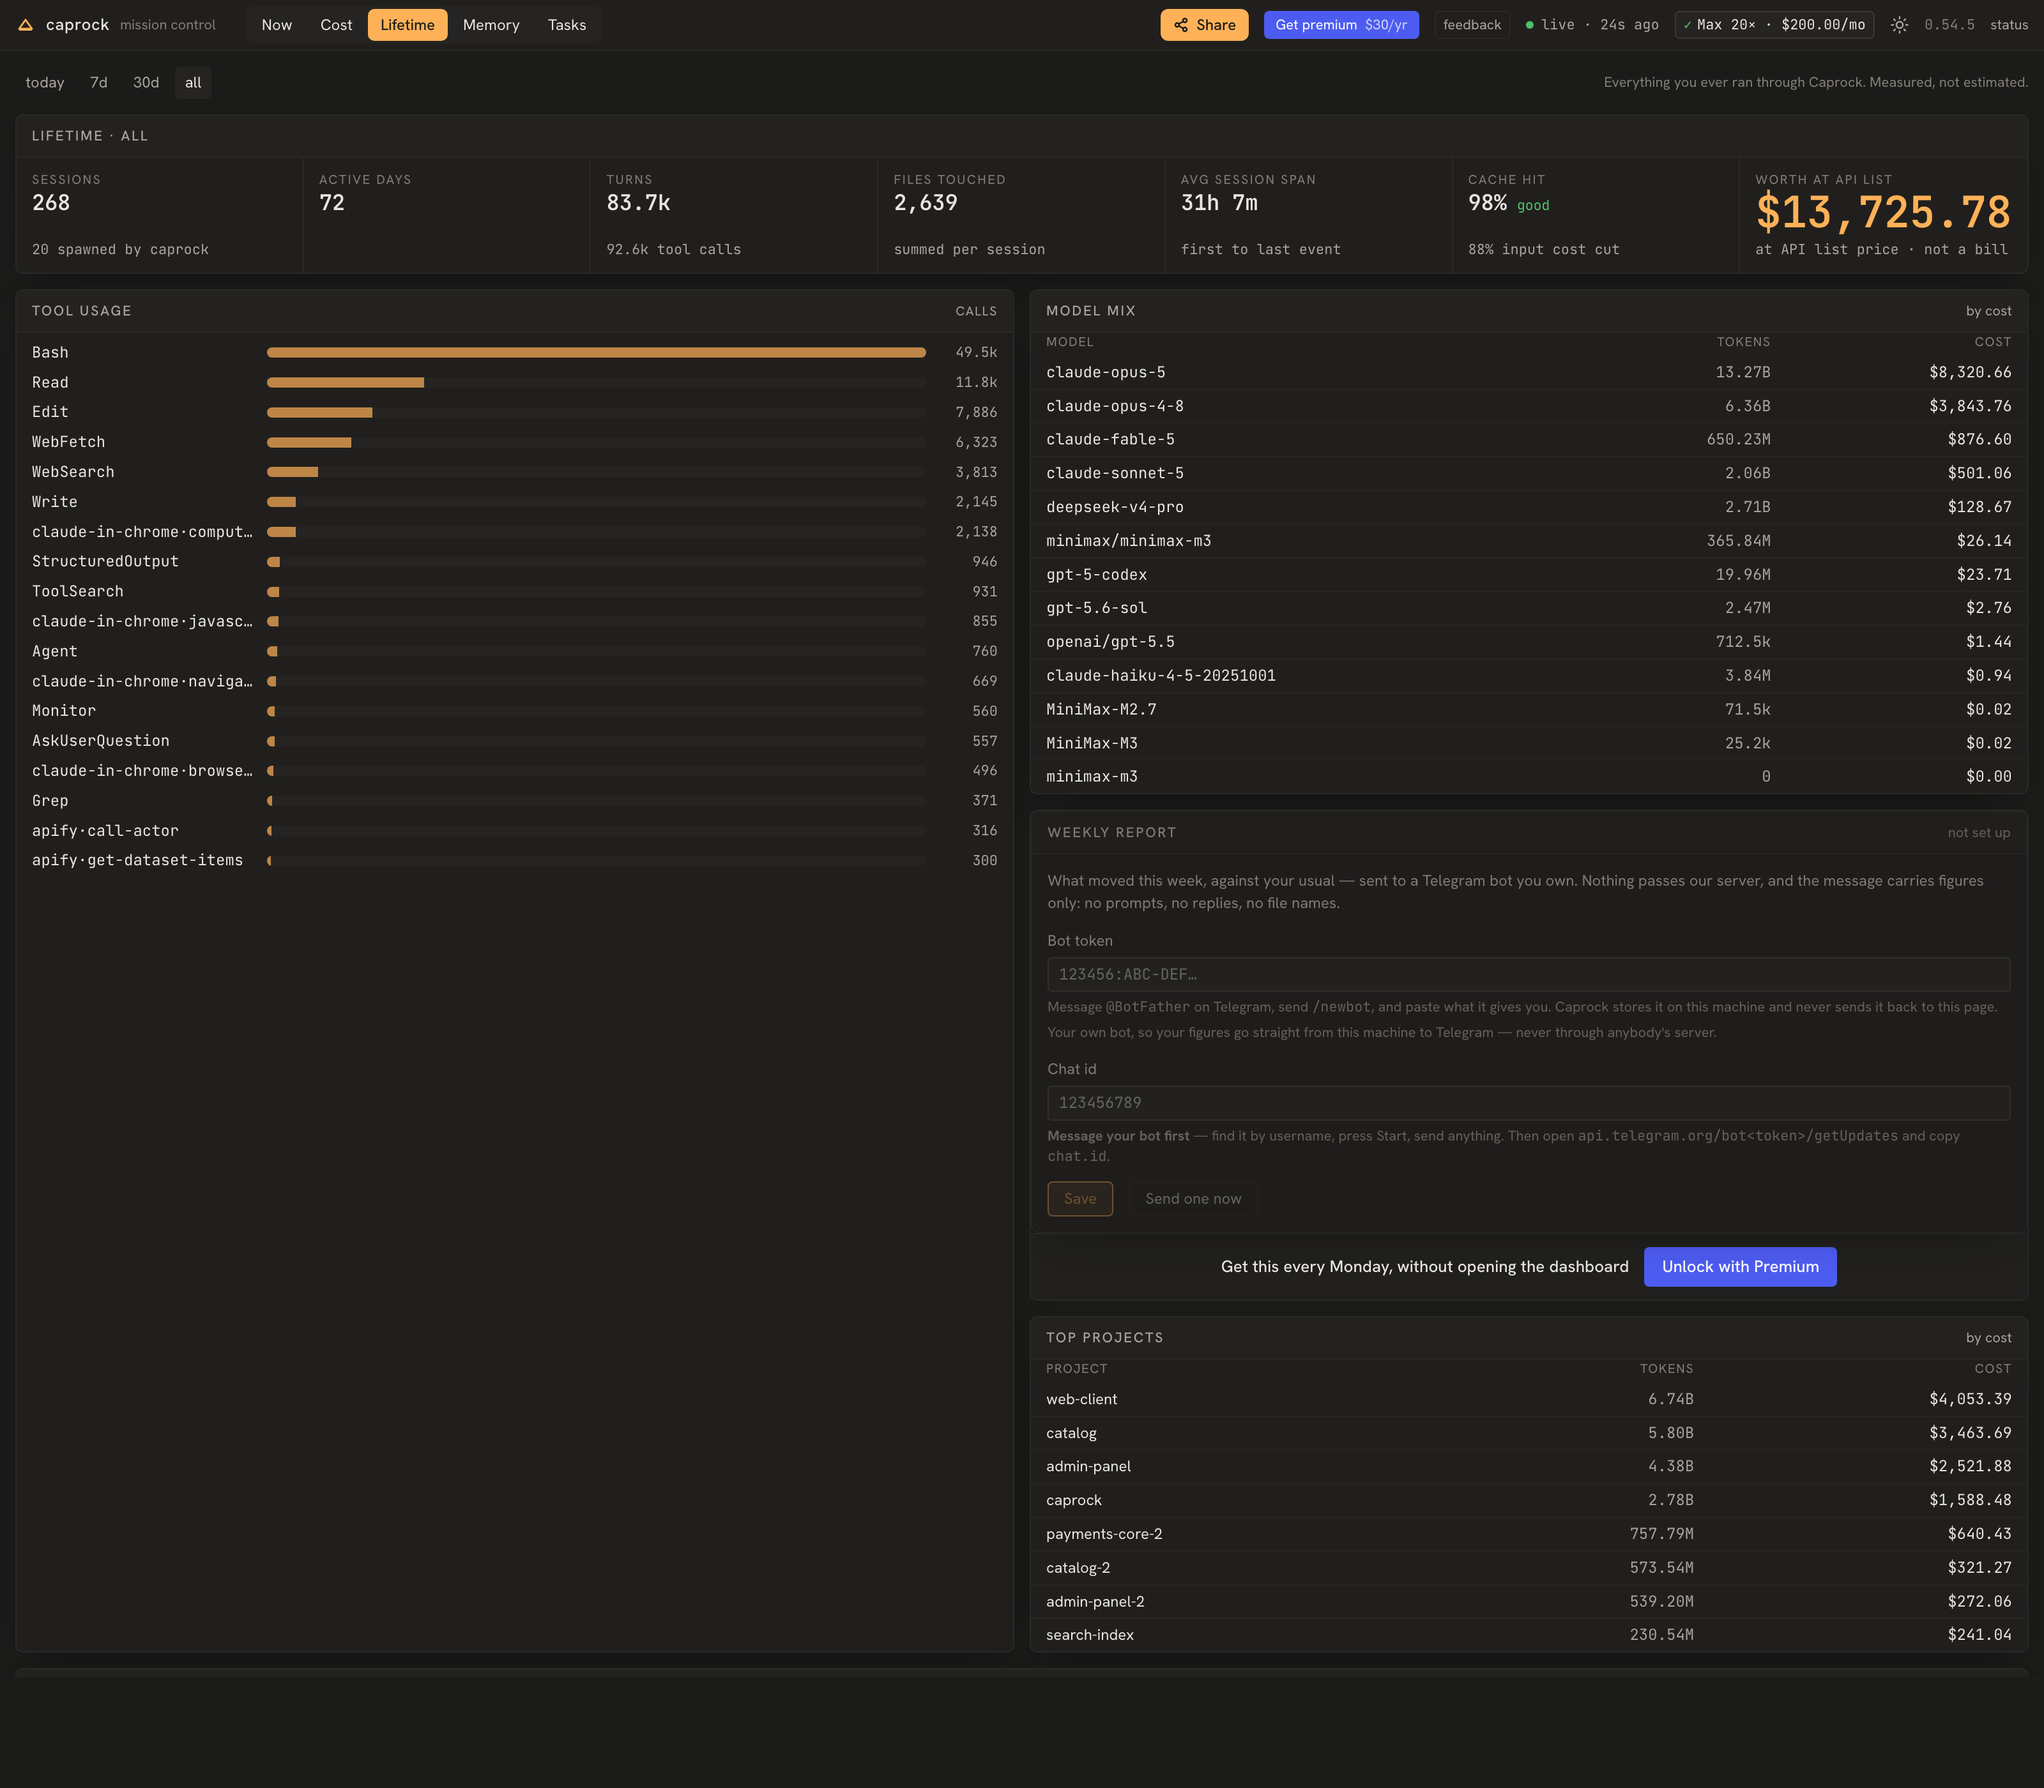
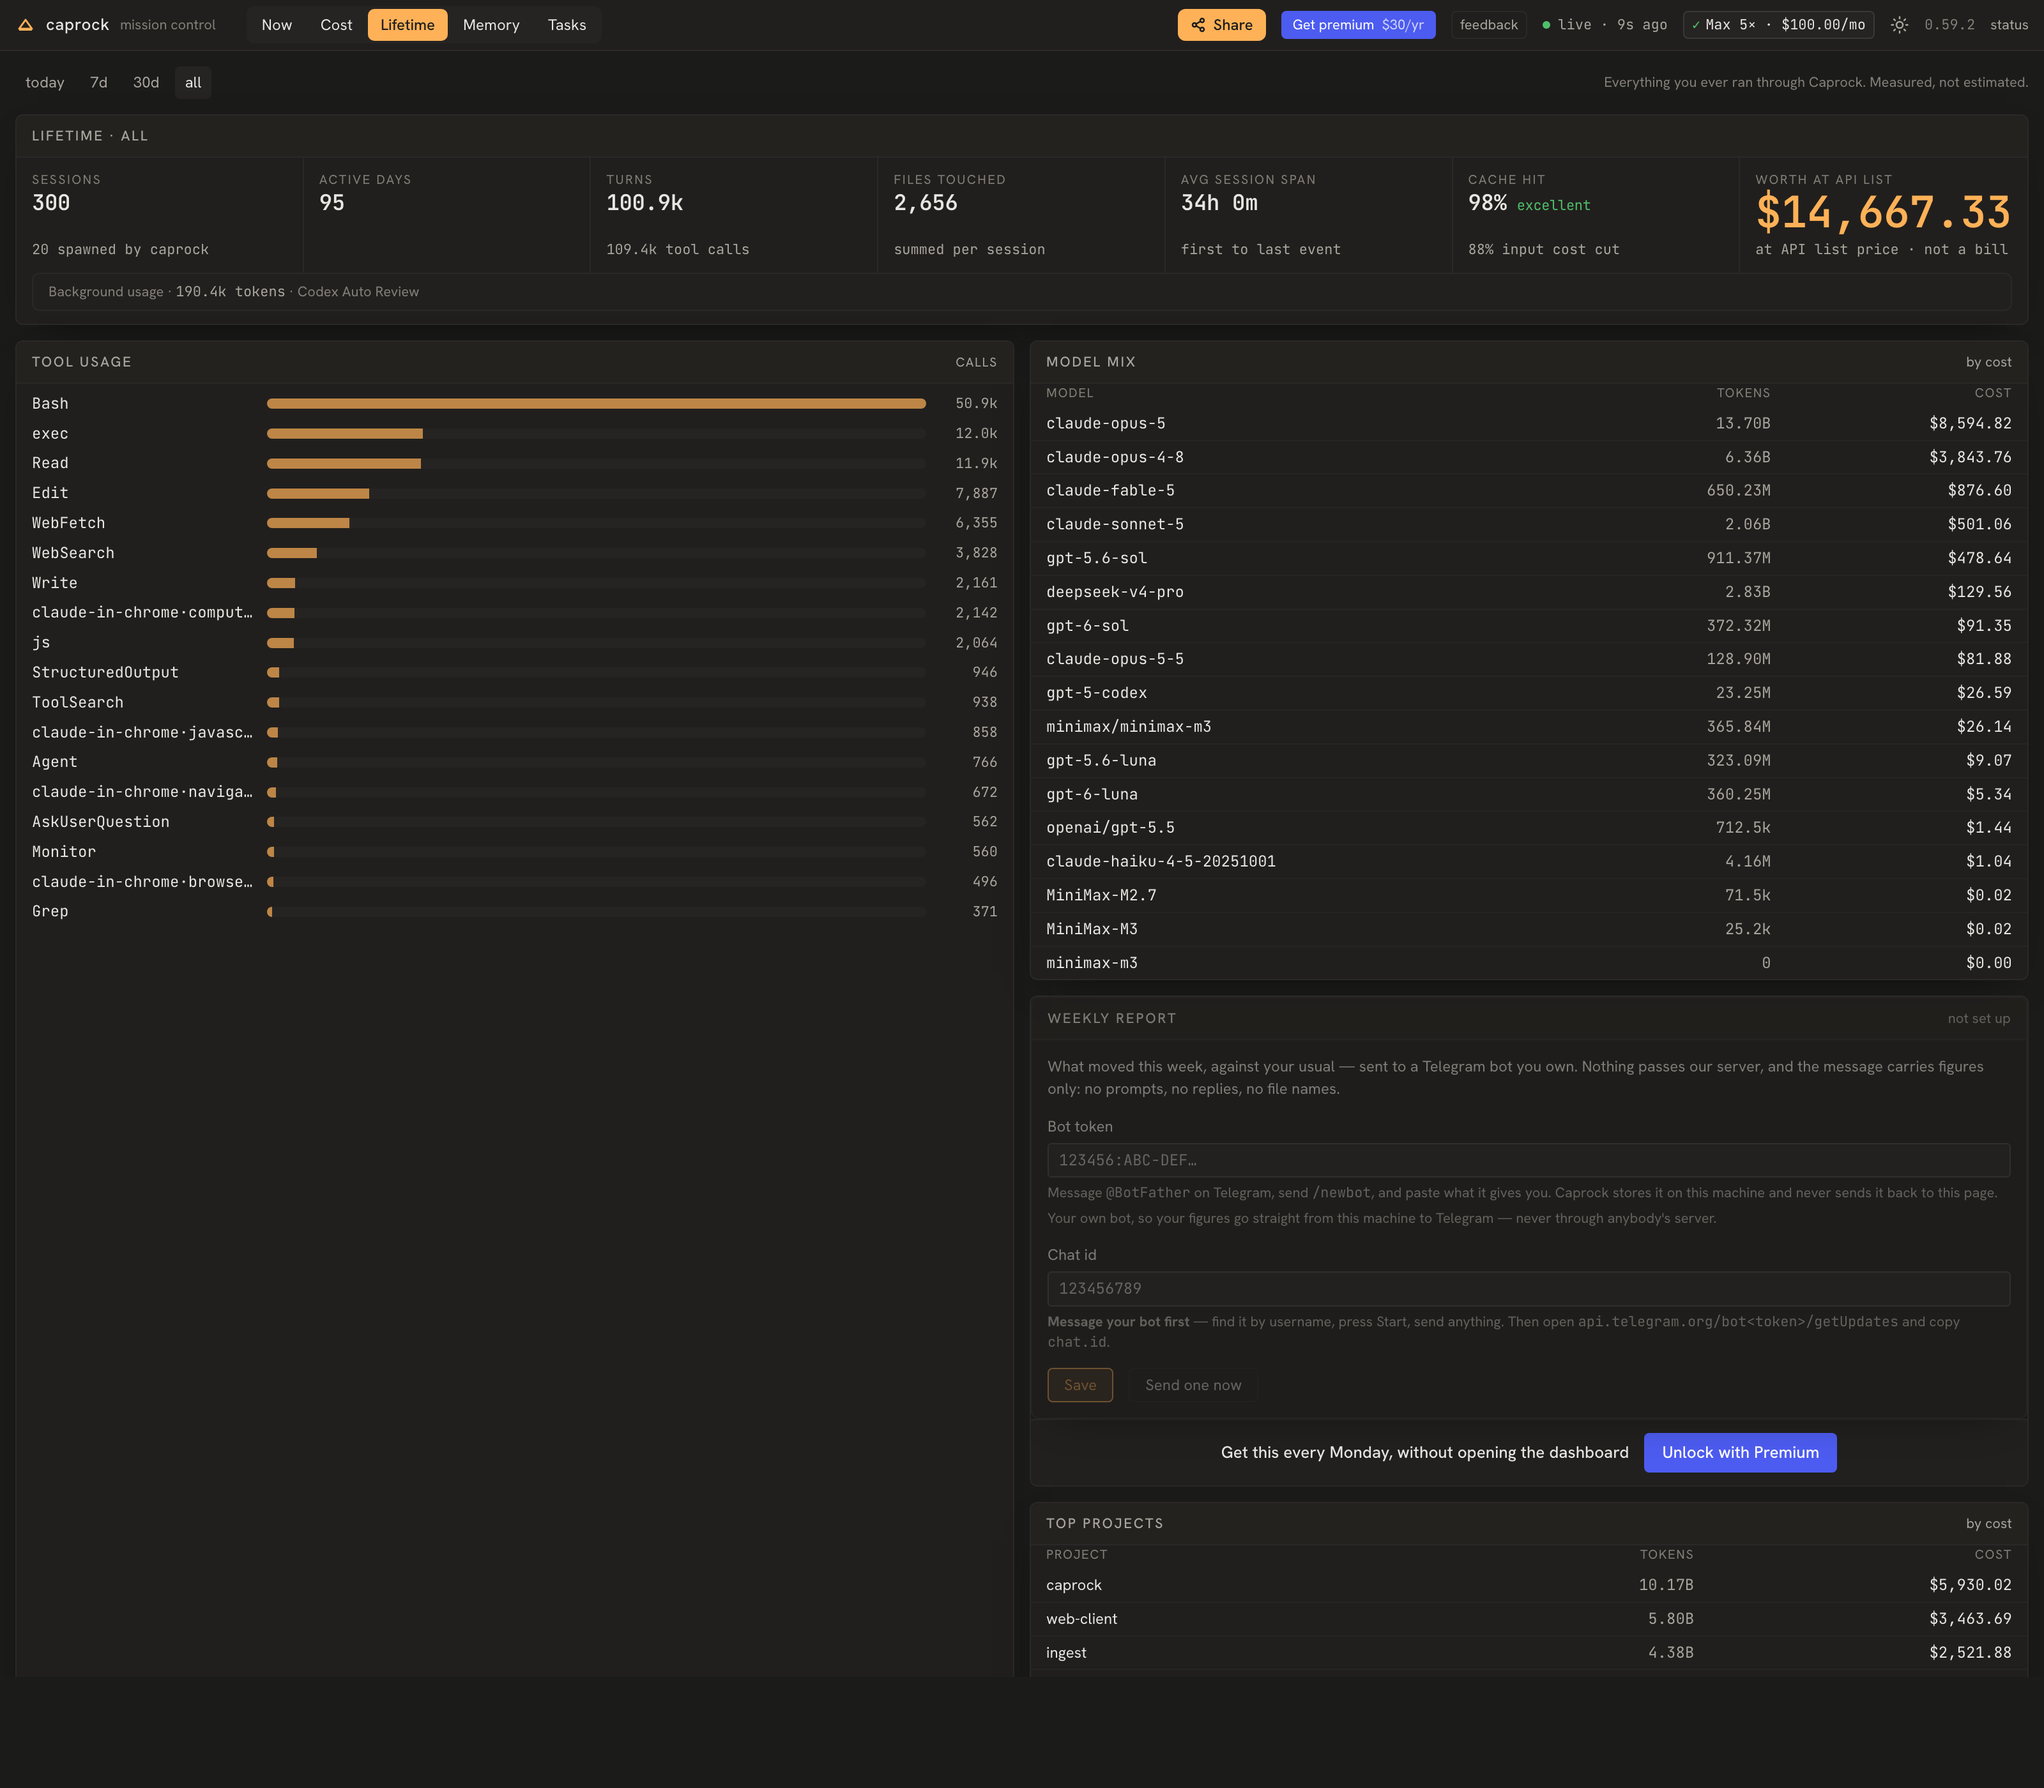
docs(shots): refresh the screenshots; make the capture wait, scrub titles and shallow roots (#95)
* fix(shots): a table row ending in $0.00 is not a screen still loading

The check read any line ending in $0.00 as an unloaded stat. History's
model table has an honest one (a free model at $0.00), so the screen
never counted as loaded; the old 20-second cap had captured it anyway.

* fix(shots): scrub titles, never rewrite through a shallow root, read no live transcripts

- A session in "/" made the root flattening replace every slash in every
  path; the capture printed a project named
  "data-pipeline-3Usersdata-pipeline-3devdata-..." at 72% of the month.
  Roots with fewer than two segments are moved by equality.
- Names are renamed inside paths only as /Users/dev/dev/<name>, so a
  project called tmp or repo cannot rewrite the middle of another name.
- Session titles and first prompts (new in v0.59.0) are the user's own
  words and were published verbatim; every session gets a stand-in title.
- The shot daemon runs with an empty HOME: tailing the live transcripts
  re-imported gigabytes on start and brought the capturing session's new
  events in after the scrub.

* docs(shots): refresh the dashboard screenshots

Taken against a copy of a real database, with project names and paths
scrubbed by scripts/shots.py.

Claude-Session: https://claude.ai/code/session_01DR8fggA2LRHcjNWUsqtDcF

* fix(shots): give the shot daemon the hooks, so Now does not lead with 'Hooks not installed'

* docs(shots): refresh the dashboard screenshots
[…]

diff --git a/scripts/shots.py b/scripts/shots.py
@@ -11,7 +11,8 @@ import base64, json, os, pathlib, sqlite3, subprocess, sys, time, urllib.request
 # a real database and has no business sitting in a working tree.
 DB = pathlib.Path(os.environ.get("CAPROCK_SHOT_DB",
                                  pathlib.Path(__file__).parent / "shotdata" / "caprock.db"))
-THIS_SESSION = "8e968de8-d2a4-428f-a7d9-2658b3e6937f"
+# The session running the capture, when it runs inside one.
+THIS_SESSION = os.environ.get("CLAUDE_CODE_SESSION_ID") or "8e968de8-d2a4-428f-a7d9-2658b3e6937f"
 
 # Repository names are as identifying as paths, and rewriting the paths alone
 # left them on screen: an employer's name, a person's surname, a client's
@@ -39,6 +40,17 @@ FEED_FIELDS = {
     "query": ["go context cancellation", "react suspense streaming",
               "sqlite wal mode", "http retry backoff"],
 }
+# Session cards lead with the agent's title for the session, or else a prompt
+# typed in it (FB-035) — the user's own words, which the path scrub never
+# sees. Every session gets one of these instead, and no prompt, so a card can
+# never fall back to reading one out of the events.
+TITLES = [
+    "Add retry with backoff to the webhook sender", "Fix flaky checkout test",
+    "Paginate the orders endpoint", "Migrate sessions table to UUID keys",
+    "Profile the search indexer", "Tighten auth token expiry",
+    "Split the billing worker into two queues", "Review the rate limiter",
+    "Dark mode for the admin panel", "Upgrade to React 19",
+]
 STAND_INS = [
     "acme-api", "acme-web", "payments-core", "billing", "checkout",
     "inventory", "notify-svc", "search-index", "data-pipeline", "auth-gateway",
@@ -100,6 +112,20 @@ def scrub():
         taken: dict[str, int] = {}
         for root in roots:
             leaf = root.rstrip("/").rsplit("/", 1)[-1]
+            # A root this shallow ("/", "/tmp", "/private/tmp") is a prefix of
+            # every path on the machine. Substituting it rewrote every slash:
+            # the v0.59.0 capture printed a project called
+            # "data-pipeline-3Usersdata-pipeline-3devdata-…" at 72% of the
+            # month. Such a session is moved onto its own root, by equality.
+            if root.strip("/").count("/") < 2 or not leaf:
+                leaf = leaf or "workspace"
+                n = taken.get(leaf, 0)
+                taken[leaf] = n + 1
+                flat = f"/Users/dev/dev/{leaf}" if n == 0 else f"/Users/dev/dev/{leaf}-{n + 1}"
+                c.execute("UPDATE sessions SET cwd=?, repo_path=? WHERE cwd=? AND (repo_root IS NULL OR repo_root='')",
+                          (flat, flat, root))
+                c.execute("UPDATE sessions SET repo_root=? WHERE repo_root=?", (flat, root))
+                continue
             n = taken.get(leaf, 0)
             taken[leaf] = n + 1
             flat = f"/Users/dev/dev/{leaf}" if n == 0 else f"/Users/dev/dev/{leaf}-{n + 1}"
@@ -153,14 +179,32 @@ def scrub():
         # as readily as through the project column, so the whole blob is
         # rewritten rather than a chosen field: the alternative is enumerating
         # every key the UI might ever display.
+        # Every path was re-rooted above, so inside a path a name only ever
+        # appears as `/Users/dev/dev/<name>` — replaced there, bounded, so a
+        # project called `tmp` or `repo` cannot rewrite the middle of another
+        # name. The label column is replaced whole. Free text in payloads
+        # takes a bare substring only for names long enough not to be a word.
+        root = "/Users/dev/dev/"
+        path_cols = [tc for tc in cols if tc != ("sessions", "project")]
         for real, token, _ in mapping:
-            for t, col in cols:
-                c.execute(f"UPDATE {t} SET {col}=REPLACE({col},?,?) WHERE {col} LIKE ?",
-                          (real, token, f"%{real}%"))
+            c.execute("UPDATE sessions SET project=? WHERE project=?", (token, real))
+            for t, col in path_cols:
+                for a, b in ((root + real + "/", root + token + "/"), (root + real + '"', root + token + '"')):
+                    c.execute(f"UPDATE {t} SET {col}=REPLACE({col},?,?) WHERE {col} LIKE ?",
+                              (a, b, f"%{a}%"))
+                c.execute(f"UPDATE {t} SET {col}=? WHERE {col}=?", (root + token, root + real))
+            if len(real) >= 4:
+                for t, col in (("events", "touch_dir"), ("events", "payload"), ("session_files", "path")):
+                    c.execute(f"UPDATE {t} SET {col}=REPLACE({col},?,?) WHERE {col} LIKE ?",
+                              (real, token, f"%{real}%"))
         for _, token, fake in mapping:
             for t, col in cols:
                 c.execute(f"UPDATE {t} SET {col}=REPLACE({col},?,?) WHERE {col} LIKE ?",
                           (token, fake, f"%{token}%"))
+        c.execute("SELECT session_id FROM sessions ORDER BY session_id")
+        for i, (sid,) in enumerate(c.fetchall()):
+            c.execute("UPDATE sessions SET title=?, prompt='' WHERE session_id=?",
+                      (TITLES[i % len(TITLES)], sid))
         # The feed's own text. Rewritten per row so the list reads as varied
         # work rather than one command repeated eighty times.
         c.execute("SELECT rowid, payload FROM events WHERE payload LIKE '%tool_input%'")
@@ -326,7 +370,9 @@ def main():
                         if (document.querySelector('.skeleton-pulse')) return false;
                         if (t.includes('reading your figures')) return false;
                         if (t.includes('nothing measured')) return false;
-                        if (/\\$0\\.00\\s*$/m.test(t)) return false;
+                        // A stat still at zero stands on its own line; a
+                        // table row can honestly end in $0.00 (a free model).
+                        if (/^\\$0\\.00\\s*$/m.test(t)) return false;
                         // Tasks carries no money; the placeholders are all it has.
                         return !wantMoney || /\\$[0-9][0-9,]*\\.[0-9]{2}/.test(t);
                       })(""" + ("false" if route == "tasks" else "true") + """)
